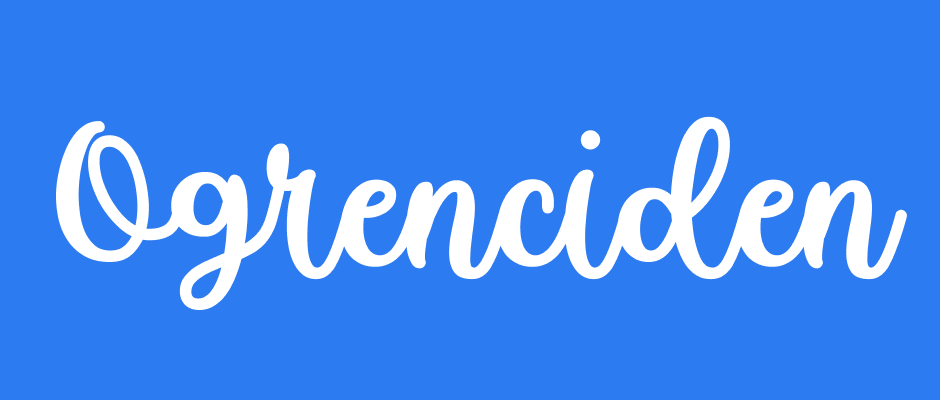
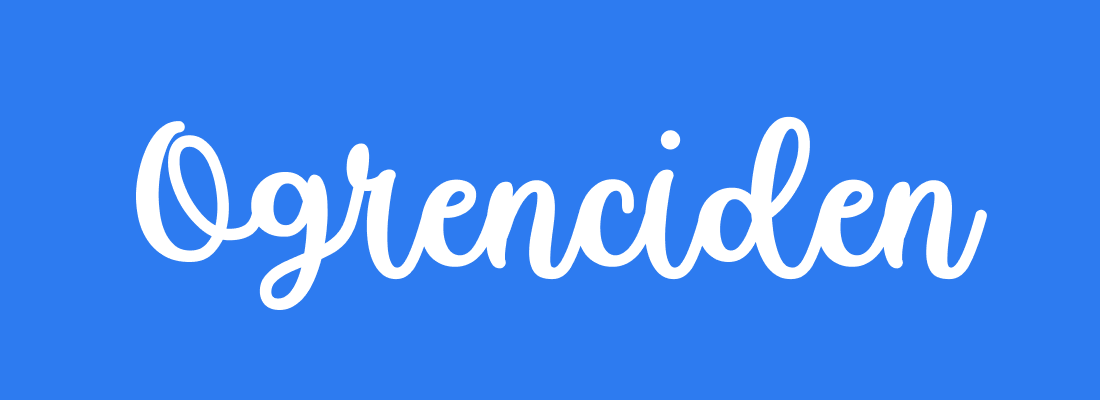
change default social media image

Changed region(s): [[0.0617, 0.27, 0.9872, 0.78], [0.5862, 0.33, 0.6479, 0.39]]

diff --git a/components/Seo/SocialTags.vue b/components/Seo/SocialTags.vue
@@ -24,7 +24,7 @@ export default {
 		}
 	},
 	head() {
-		const image = this.image || 'https://i.ibb.co/pWn67RK/ogrenciden.png'
+		const image = this.image || 'https://i.ibb.co/wRSM7BG/ogrenciden.png'
 
 		return {
 			meta: [
